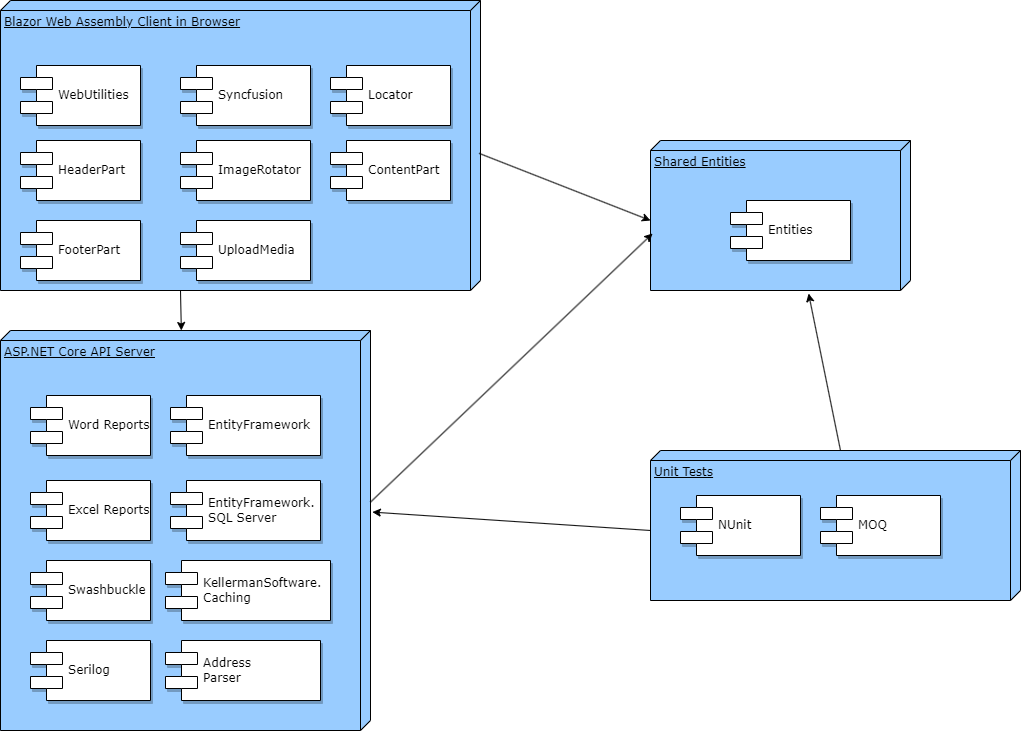
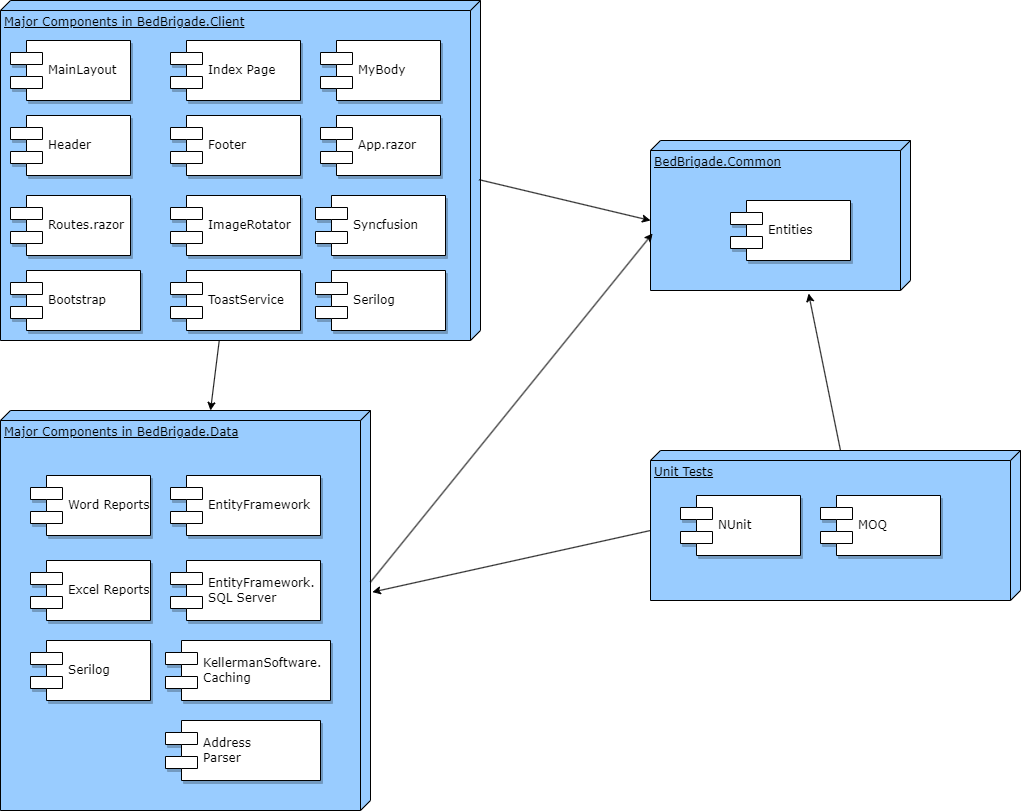
Update diagrams.  Add Resources for Learning Blazor 8

diff --git a/Documentation/Resources for Learning Blazor 8.md b/Documentation/Resources for Learning Blazor 8.md
@@ -1,0 +1,64 @@
+# Resources for Learning Blazor 8
+
+## Official Microsoft Resources
+
+Microsoft Official Blazor Page
+
+https://learn.microsoft.com/en-us/aspnet/core/blazor/?view=aspnetcore-8.0
+
+Build your first web app with ASP.NET Core using Blazor
+
+https://dotnet.microsoft.com/en-us/learn/aspnet/blazor-tutorial/intro
+
+## Blazor 8 Paid Courses
+
+Blazor Deep Dive - From Beginner to Advanced in .NET 8
+
+https://www.udemy.com/course/blazor-deep-dive-from-beginner-to-advanced
+
+Master Blazor: Build Inventory Management System in .NET 8
+
+https://www.udemy.com/course/learn-blazor-while-creating-an-inventory-management-system/
+
+## Free Courses on YouTube Ordered by Likes
+
+Full stack web UI with Blazor in .NET 8 | .NET Conf 2023 (3.1K Likes)
+
+https://www.youtube.com/watch?v=YwZdtLEtROA
+
+Blazor Full Course For Beginners (2.1K Likes)
+
+https://www.youtube.com/watch?v=RBVIclt4sOo
+
+CRUD w/ Blazor in .NET 8 All Render Modes (SSR, Server, Wasm, Auto), Entity Framework & SQL Server (1.9K Likes)
+
+https://www.youtube.com/watch?v=w8imy7LT9zY
+
+Intro to Blazor in .NET 8 - SSR, Stream Rendering, Auto, and more... (1.9K Likes)
+
+https://www.youtube.com/watch?v=walv3nLTJ5g 
+
+Modern Full-Stack Web Development with ASP.NET Core & Blazor (821 Likes)
+
+https://www.youtube.com/watch?v=NbfhbDKiFpM
+
+Blazor in .NET 8 in 3 Hours | Blazor Server | WebAssembly | Entity Framework Core | ASP.NET Identity (605 Likes)
+
+https://www.youtube.com/watch?v=LMDo38DPxZc
+
+Learn Blazor: Build an Inventory Management System in .NET 8 (532 Likes)
+
+https://www.youtube.com/watch?v=JgEjgobtDg0
+
+Full Complete Blazor Students Management System with Admin LTE in .NET8.0,EF Core,SQL Server (234 Likes)
+
+https://www.youtube.com/watch?v=2t1ZYxOMycw
+
+.NET 8 Blazor The Ultimate Beginners Guide (116 Likes)
+
+https://www.youtube.com/watch?v=a_HUyGhUI9M&list=PL285LgYq_FoI2LFCSUTpc8PSkFkLxN7cB
+
+## People to Subscribe to on YouTube
+https://www.youtube.com/@PatrickGod
+
+https://www.youtube.com/@IAmTimCorey

diff --git a/README.md b/README.md
@@ -36,8 +36,9 @@ Current Website running in Orchard CMS:  https://www.bedbrigadecolumbus.org/
 * [Implementation Plan](Documentation/Implementation%20Plan.md)
 * [Project Plan](Documentation/Project%20Plan.md)
 * [References](Documentation/References.md)
+* [Resources for Learning Blazor 8](Documentation/Resources%20for%20Learning%20Blazor%208.md)
 * [Roles](Documentation/Roles.md)
 * <a href="https://bedbrigade.slack.com" target="_blank">Slack Workspace</a> used for project communication
 * <a href="https://trello.com/b/SfXILMoU/bed-brigade" target="_blank">Trello Board</a> used for Kanban
 
-
+ 

diff --git a/Documentation/Architecture.md b/Documentation/Architecture.md
@@ -10,7 +10,6 @@ BedBrigadeNational\Documentation\Design
 <hr />
 
 ## Application Infrastructure Diagram
-(This is out of date)
 ![Application Infrastructure Diagram](Design/Application%20Infrastructure%20Diagram.png)
 
 <hr />
